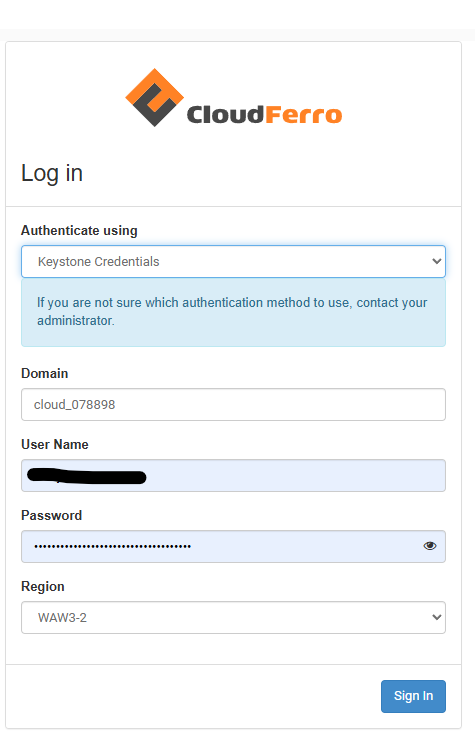
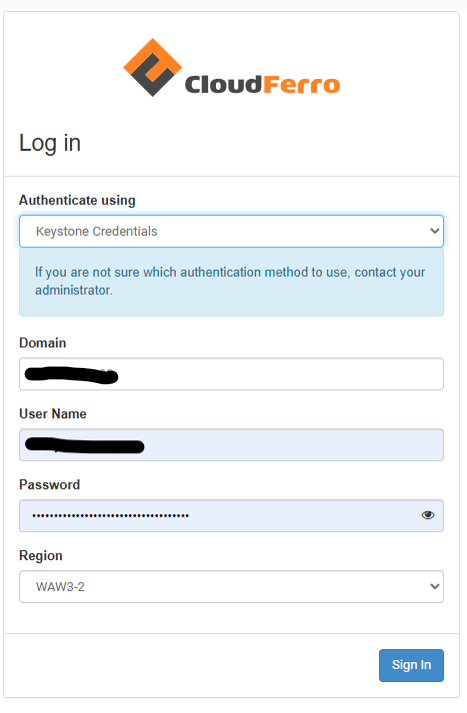
hackathon start instructions

Changed region(s): [[0.0, 0.0617, 0.9893, 0.9874], [0.2698, 0.0309, 0.7495, 0.1851]]

diff --git a/CF.md b/CF.md
@@ -2,19 +2,6 @@
 
 In addition to the standard [CDSE services](CDSE.md) the hackathon participants can launch virtual server in the [CREODIAS](https://creodias.eu/) platform provided by CloudFerro. 
 
-For the access to the CREODIAS platform each team will receive one Keystone credential and an SSH key to be used with the pre-configured [OSGeoLive](https://live.osgeo.org/en/index.html) server with additional services (Rstudio, JupyterHub, Shiny, Apache Superset).
-
-During the hackathon in the [Horizon Dashboard](https://horizon.cloudferro.com/) the participants have to use the option ***Keystone credentials*** and use the Domain ***cloud_078898*** and region ***WAW3-2***.  
-
-![Horizon dashboard login screen](img/horizon-keystone.png)
-
-After the first login, the participants should be able to see the pre-launched server with GPU support. The participants from the Dashboard can terminate the preconfigured server and can launch additional service till the allowed overall limit per team, which are:
-
- - **max 20 instances**
- - **max 20 CPU cores** total in all instances
- - **max 50 GB RAM** total in all instances
- - **max 10 disks** with a **max 1000 GB** storage in total
-
 From the virtual servers you can access the CDSE resources and the additional datasets which are mentioned in the [Data Catalogue](data-catalogue.md).
 
 :::{Note}
@@ -24,99 +11,76 @@ The sample notebooks to access the datasets together with some description of th
  - [docs](https://github.com/eurostat/eubd2025_docs/tree/main/docs)
 :::
  
-## Step by step instructions to recreate the customized image with additional services
+## First steps at the hackathon
 
-1. After login in to the [Horizon dashboard](https://horizon.cloudferro.com/) go to the ***Instances*** in the left menu and choose ***Launch Instance***.
+1. The hackathon participants receive a message with a link in your team private channel. Clicking on the link you get to 1password site.
 
-  ![Horizon dashboard instances](img/launch-instance.png)
+![1password login screen](img/1password_start.png)
 
-2. In the new window first you give a name to your instance
+2. Each participant should provide the email what (s)he used for the CDSE registration and on that email a verification code will be sent that has to be entered in the next screen.
 
-  ![Instance name](img/instance-name.png)
+![1password verification screen](img/1password_verification.png)
 
-3. Then select the source of the image: ***OSGeoLive 16.0***
+3. After successful verification the participant will be able to download a text file containing all the credentials.
 
-  ![Image source](img/source.png)
+![1password download screen](img/1password_download.png)
 
-4. The next step is to select the flavor of the instance e.g. size of CPU, RAM and disk. 
+4. The access of the cloud environment is possible through the [Horizon Dashboard](https://horizon.cloudferro.com/auth/login/?next=/) by using the domain, username, password and region provided in the text file download in step 3.  (Authenticate using: ***Keystone credentials***, region ***WAW3-2***).  
 
-  :::{Important}
-  The instance should have at least **40GB** of disk!
-  :::
+![Horizon dashboard login screen](img/horizon-keystone.png)
 
-  ![Flavor](img/flavor.png)
+5. After the first login, the participants should be able to see the pre-launched server with GPU support. The running server is a pre-configured [OSGeoLive](https://live.osgeo.org/en/index.html) server with additional services (Rstudio, JupyterHub, Shiny, Apache Superset). 
+The participants from the Dashboard can terminate the preconfigured server and can launch additional service till the allowed overall limit per team, which are:
 
-5. Under the networks add both networks 
+ - **max 20 instances**
+ - **max 20 CPU cores** total in all instances
+ - **max 50 GB RAM** total in all instances
+ - **max 10 disks** with a **max 1000 GB** storage in total
 
-  ![Networks](img/networks.png)
+6. Using the SSH key from the file downloaded in step 3 the participant should login with ssh to running server and change password. 
+The public IP address of the server is available in the [Horizon Dashboard](https://horizon.cloudferro.com/) under the ***Instances*** in the left menu. 
+    :::{Important}
+    The default username is ***eouser***. 
+    :::important
 
-6. Under the Security Groups enable the following ports for incoming connections:
-
- - 22 (SSH)
- - 3389 (RDP)
- - 3838 (Shiny)
- - 8000 (JupyterHub)
- - 8088 (Superset)
- - 8787 (Rstudio)
-
-:::{Note}
-In the account there can be already predefined security groups contain these port. If not, you have to create it following [these instructions](https://creodias.docs.cloudferro.com/en/latest/cloud/How-to-use-Security-Groups-in-Horizon-on-Creodias.html)
-:::
-
-  ![Security Groups](img/security-groups.png)
-
-7. Finally you select or create an SSH key pair that will be used to connect to the instance for the first time.
-
-  ![SSH key](img/key-pair.png)
-
-8. Launch the instance and wait until it will be running
-
-9. Create and associate an external IP following [these steps](https://creodias.docs.cloudferro.com/en/latest/networking/How-to-Add-or-Remove-Floating-IPs-to-your-VM-on-Creodias.html)
-
-  ![Add IP](img/add-ip.png)
-
-10. Then you can access your instance with an SSH client using the key from step 7 and the username is ***eouser***. Then the first step will be to create a password for the default user (eouser). After creating the password the connection will be automatically closed.
+After login usually the first step is to create a password for the default user (***eouser***). After creating the password the connection will be automatically closed.
 
   ![Initialize password](img/pwd-change.png)
 
-11. To enable RDP and add the additional services you have to run the following shell script: [add_services_nogpu.sh](scripts/add_services_nogpu.sh)
-    For that, you have to upload/copy (e.g. WinSCP) to the server. Make it executable and run in a terminal.
-    
+If the user not prompted directly to change password, it can be done manually by the following command:
+
     ```{code-block} 
-    chmod +x add_services_nogpu.sh
-    ./add_services_nogpu.sh
+    sudo passwd eouser
     ```
-    
-    :::{Important}
-    Before you run the script replace in the script on row 136 the Superset admin password `<your_superset_password>` with your own password. 
-    :::
-    
-    :::{Note}
-    The script runs and install all the services and libraries. The script restarts several times the server during the installation process and can last up to 1 hour.
-    You can check the installation status with `more ~/.service_install_status` in the terminal. When it finishes the status will be `everything went well`.  
-    ![Instal finished](img/install-finished.png)
-    :::
-    
+7. *After the setup of the password the server is ready to use!*
+
+
+ 
 ## Accessing the services
 
-**RDP**
+### RDP
 
-The service is available under the external IP:3389 created under step 9 above in standard RDP clients.  In case you are behind proxy you can tunnel the internal IP:3389 through SSH to your localhost and connect to your localhost port with the RDP client.  
+The service is available in standard RDP clients at the `<external/public IP>:3389` retrieved under step 5 above.  In case the participant is behind proxy the connection can be tunneled from the `<internal IP:3389>` through SSH to the `<localhost>:xxxx` and connect to the localhost port with the RDP client.  
 
-**Shiny**
+### Shiny
 
-The service is available in a browser under the external  IP:3838 created under step 9 above. 
+The service is available in a browser under the `<external/public IP:3838>` retrieved under step 5 above. 
 
-**JupyterHub**
+### JupyterHub
 
-The service is available in a browser under the external IP:8000 created under step 9 above. The username is `eouser` and password what is defined under step 10.   
+The service is available in a browser under the `<external/public IP:8000>` retrieved under step 5 above. The username is `eouser` and password what is defined under step 6 above.   
 
-**Apache Superset**
+:::{Note}
+In case after the first lunch the user receive the error that the repository read only, the user should first click on the highlighted left file browser panel first and then the read-only protection disappears. 
+  ![Jupyter read only error](img/jupyter-error-highlighted.png)
+:::
 
-The service is available in a browser under the external IP:8088 created under step 9 above. The username is `eouser` and password what is defined under step 11 defined in the `add_services_nogpu.sh`.   
+### Apache Superset
 
-**Rstudio**
+The service is available in a browser under the `<external/public IP:8088>` retrieved under step 5 above. The username is `eouser` and password is `eubdHack25`.   
 
-The service is available in a browser under the external IP:8787 created under step 9 above. The username is `eouser` and password what is defined under step 10.   
+### Rstudio
+
+The service is available in a browser under the `<external/public IP:8787>` retrieved under step 5 above. The username is `eouser` and password what is defined under step 6 above.   
 
 
